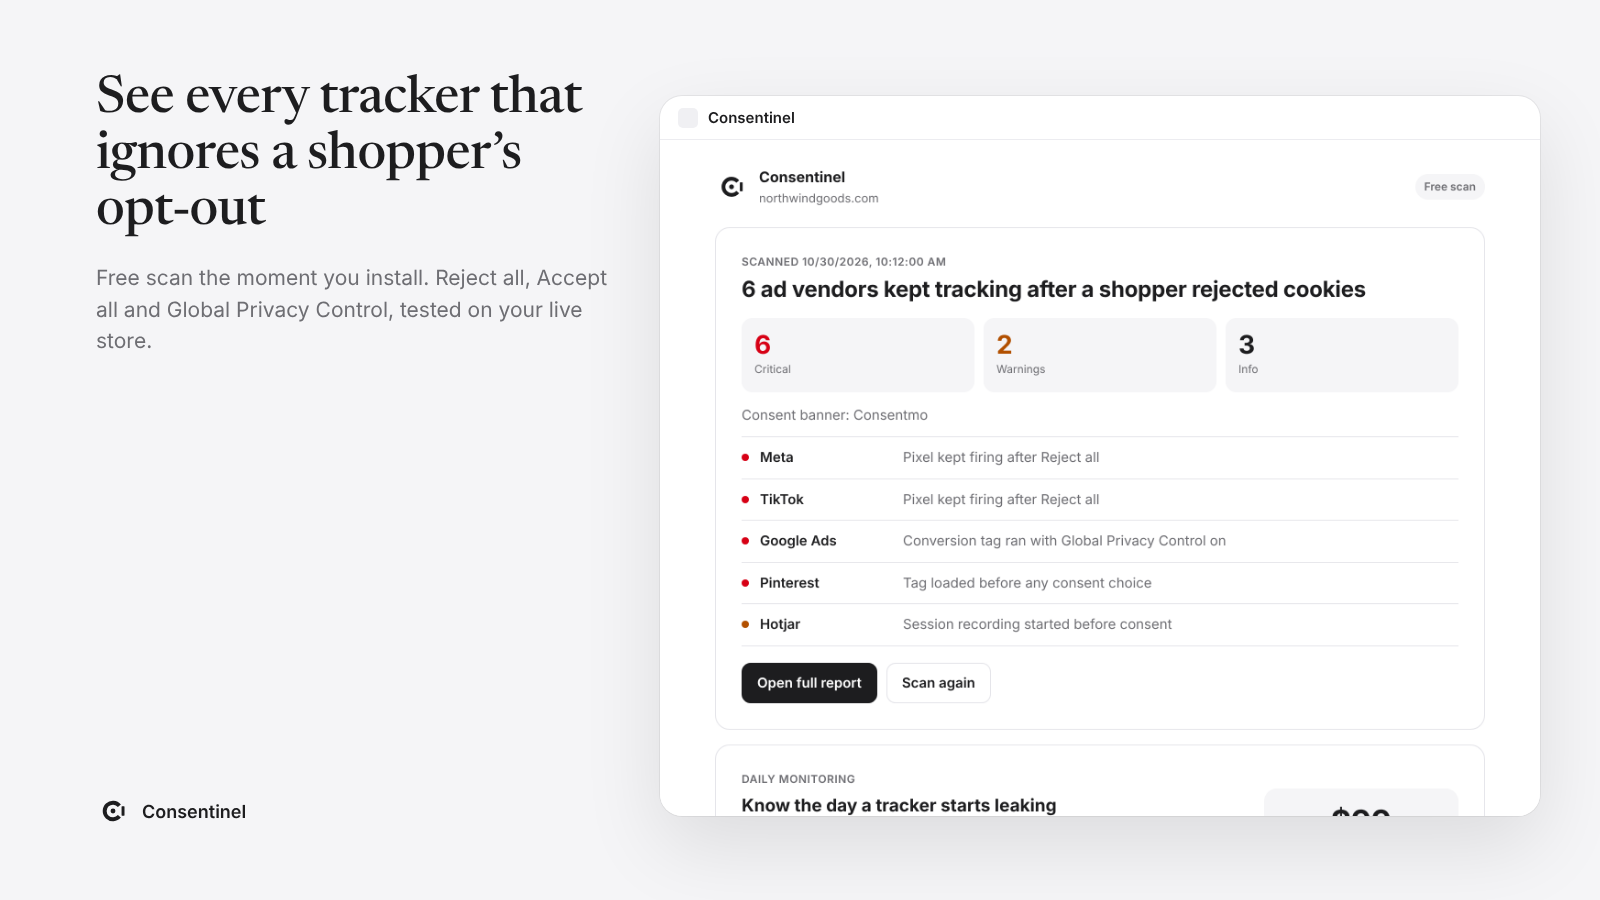
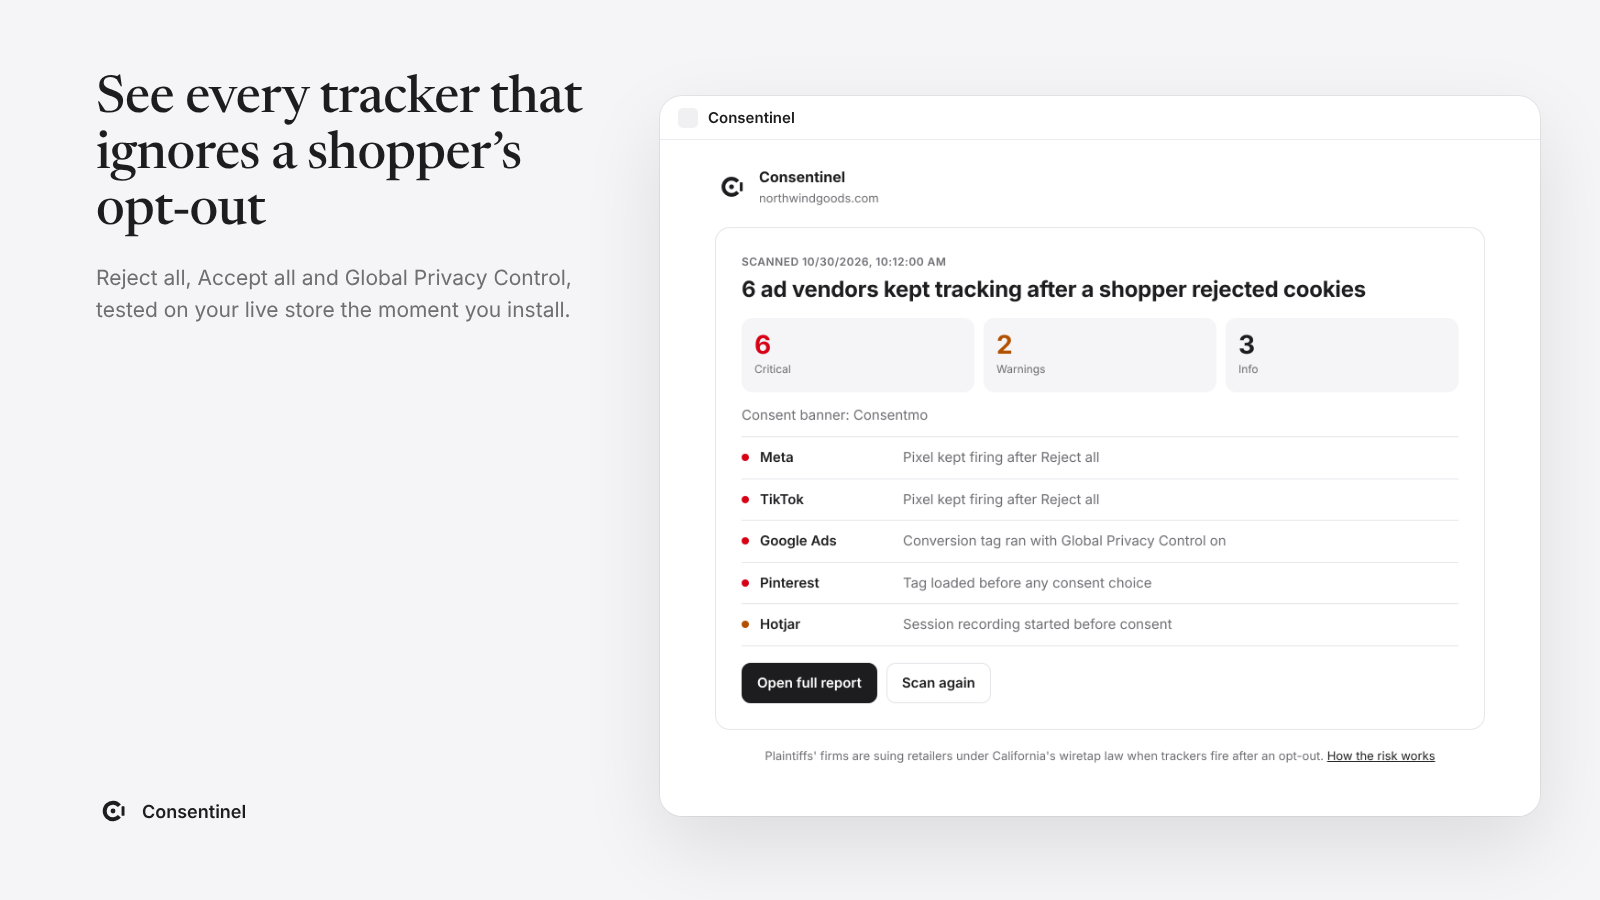
fix(shopify): listing screenshots without pricing text (#120)
Claude-Session: https://claude.ai/code/session_01URw3chLhyZY1kxTH8gQvgG

diff --git a/docs/shopify-listing/LISTING.md b/docs/shopify-listing/LISTING.md
@@ -29,14 +29,12 @@ Your consent app says it blocks trackers. We check. Consentinel visits your stor
 1. `01-findings.png`
 2. `02-scanning.png`
 3. `03-monitoring.png`
-4. `04-clean.png`
 
 Alt text:
 
 1. Scan results listing ad vendors that kept tracking after Reject all
 2. Scan in progress across reject, accept and Global Privacy Control
 3. Daily monitoring offer at $99 per month with a 7-day free trial
-4. Clean scan with daily monitoring switched on
 
 ## Pricing
 
